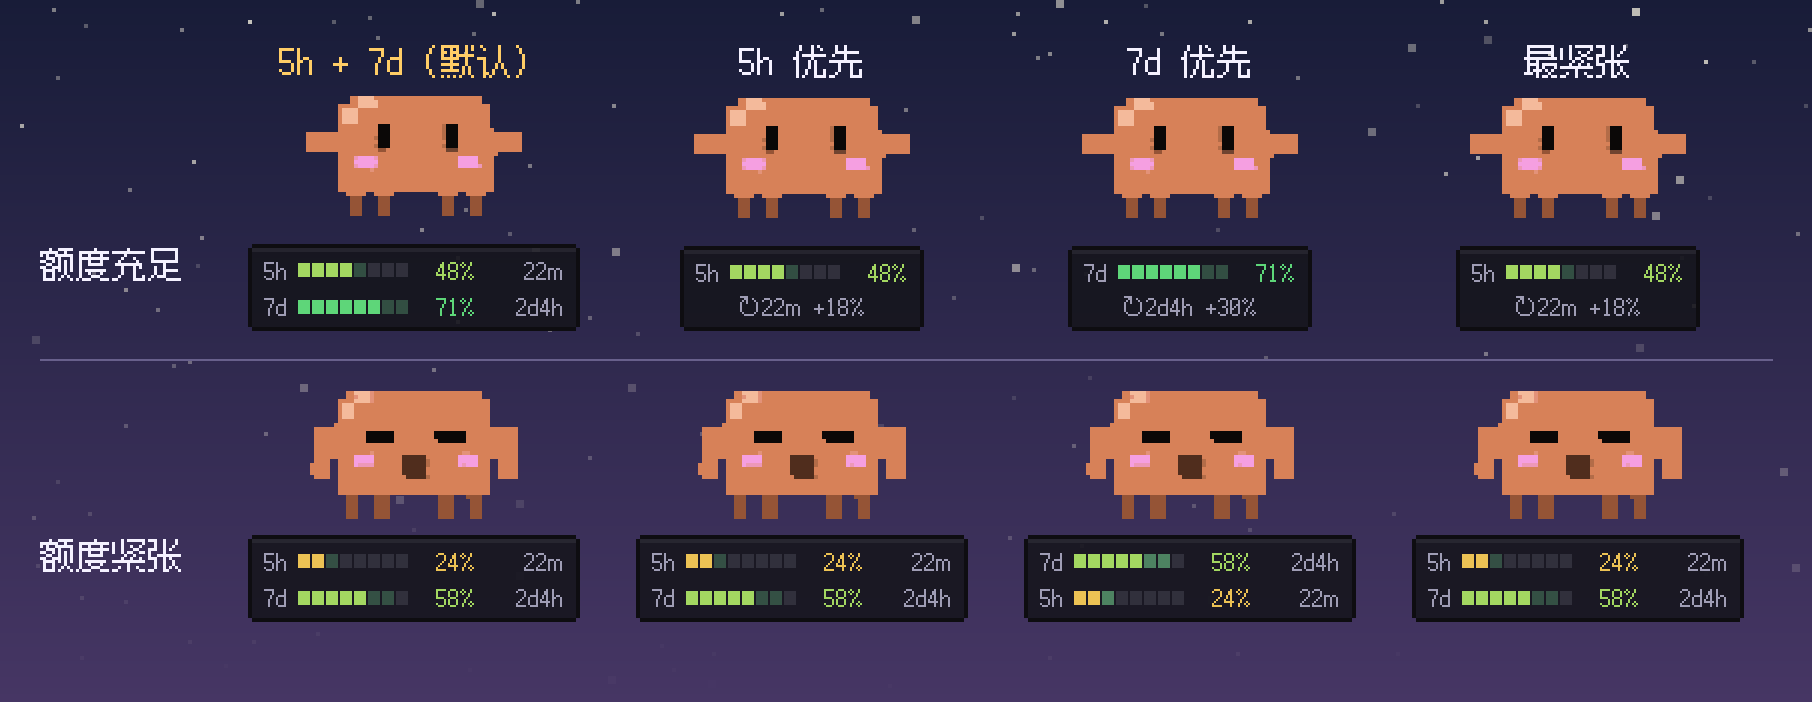
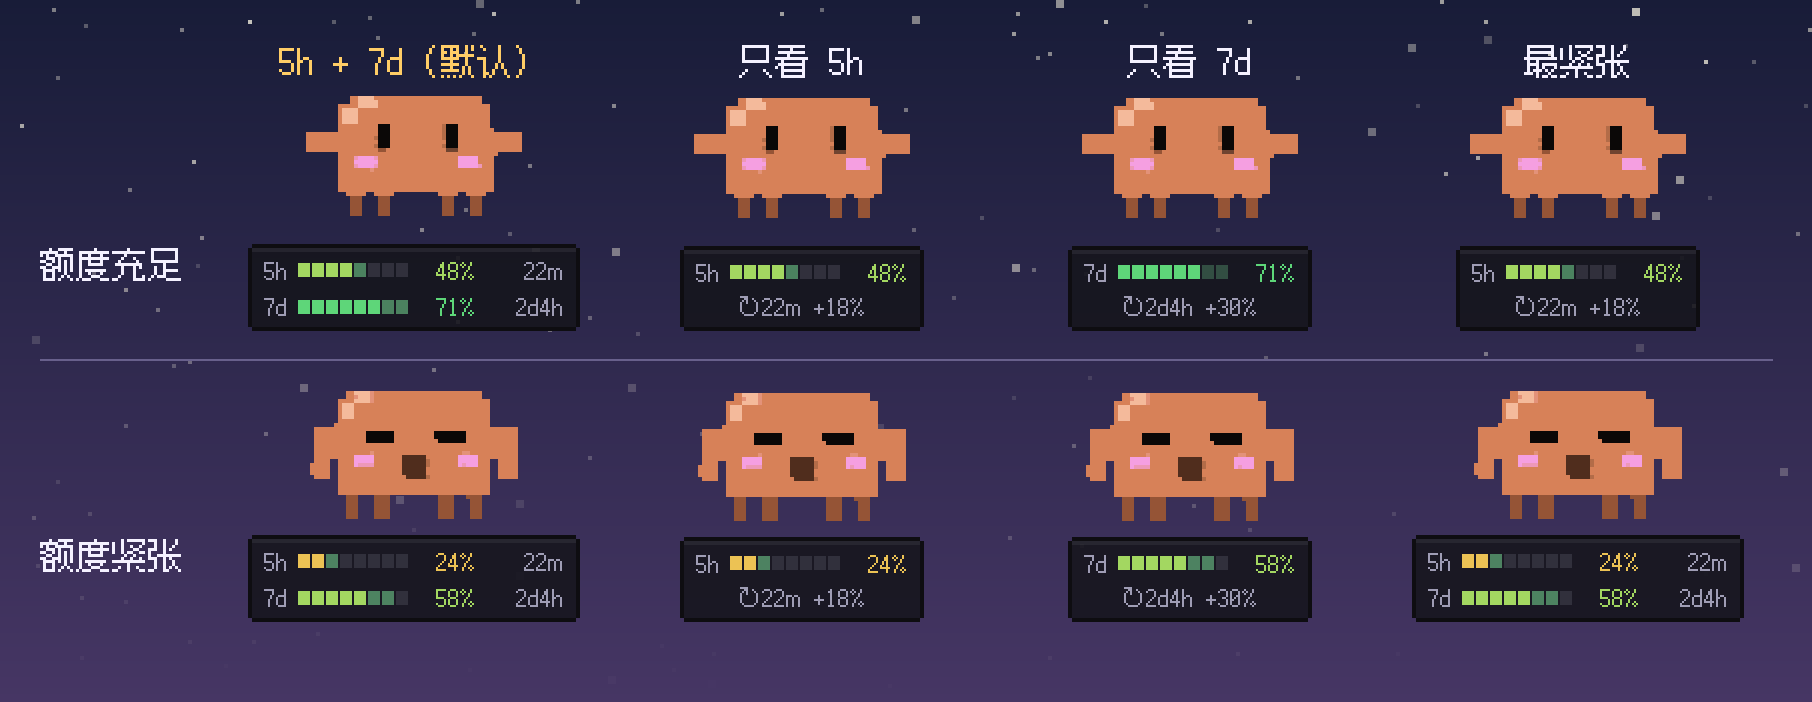
Meter choice per buddy, and an explicit choice is never overridden
Picking 5h still showed 7d too once 7d got tight, which read as the setting not working. Now
5h / 7d / 5h+7d show exactly what was picked; only "tightest" unfolds every window when quota is
low. Each buddy has its own choice (settings.hudMode is per agent; the old shared value applies to
both). README text and screenshots updated.

diff --git a/src/renderer/panel/panel.ts b/src/renderer/panel/panel.ts
@@ -2,7 +2,7 @@ import { formatClock, formatCount, formatDuration, formatMoney, hostOf } from '.
 import { windowViews, type WindowView } from '../../shared/hud';
 import { hasKey, t } from '../../shared/i18n';
 import { moodFor } from '../../shared/mood';
-import type { AgentId, AppState, BuddySnapshot, Locale, Mood, Settings, Thresholds, UsageWindow } from '../../shared/types';
+import type { AgentId, AppState, BuddySnapshot, HudMode, Locale, Mood, Settings, Thresholds, UsageWindow } from '../../shared/types';
 import { qb } from '../common/api';
 import { SpriteAnimator } from '../common/sprites';
 import { AGENT_COLORS, esc, kindLabel, MOOD_COLORS, sourceLabel, windowLabel } from '../common/view';
@@ -495,7 +495,9 @@ class SettingsView {
       <div class="group">
         <div class="set-row"><span data-i18n="set.size"></span><div class="seg" data-set="scale">
           <button data-val="1" data-i18n="set.size.1"></button><button data-val="2" data-i18n="set.size.2"></button><button data-val="3" data-i18n="set.size.3"></button></div></div>
-        <div class="set-row"><span data-i18n="set.hudMode"></span><div class="seg" data-set="hudMode">
+        <div class="set-row"><span data-i18n="set.hudMode.claude"></span><div class="seg" data-set="hudMode" data-agent="claude">
+          <button data-val="both" data-i18n="set.hudMode.both"></button><button data-val="5h" data-i18n="set.hudMode.5h"></button><button data-val="7d" data-i18n="set.hudMode.7d"></button><button data-val="auto" data-i18n="set.hudMode.auto"></button></div></div>
+        <div class="set-row"><span data-i18n="set.hudMode.codex"></span><div class="seg" data-set="hudMode" data-agent="codex">
           <button data-val="both" data-i18n="set.hudMode.both"></button><button data-val="5h" data-i18n="set.hudMode.5h"></button><button data-val="7d" data-i18n="set.hudMode.7d"></button><button data-val="auto" data-i18n="set.hudMode.auto"></button></div></div>
         <div class="hint" data-i18n="set.hudModeHint"></div>
         <div class="set-row"><span data-i18n="set.language"></span><div class="seg" data-set="locale">
@@ -525,7 +527,8 @@ class SettingsView {
     const locale = s.locale;
     for (const node of this.host.querySelectorAll<HTMLElement>('[data-i18n]')) node.textContent = t(locale, node.dataset.i18n!);
     for (const seg of this.host.querySelectorAll<HTMLElement>('.seg[data-set]')) {
-      const current = String((s.settings as any)[seg.dataset.set!]);
+      const agent = seg.dataset.agent as AgentId | undefined;
+      const current = String(agent ? s.settings.hudMode[agent] : (s.settings as any)[seg.dataset.set!]);
       for (const b of seg.querySelectorAll<HTMLElement>('button')) b.classList.toggle('on', b.dataset.val === current);
     }
     for (const sw of this.host.querySelectorAll<HTMLElement>('.switch')) {
@@ -724,7 +727,12 @@ root.addEventListener('click', async (e) => {
   const seg = target.closest<HTMLElement>('.seg[data-set]');
   if (seg && target.dataset.val) {
     const key = seg.dataset.set as keyof Settings;
-    const value = key === 'locale' || key === 'hudMode' ? target.dataset.val : Number(target.dataset.val);
+    const agent = seg.dataset.agent as AgentId | undefined;
+    if (key === 'hudMode' && agent) {
+      await qb().updateSettings({ hudMode: { ...state.settings.hudMode, [agent]: target.dataset.val as HudMode } });
+      return;
+    }
+    const value = key === 'locale' ? target.dataset.val : Number(target.dataset.val);
     await qb().updateSettings({ [key]: value } as Partial<Settings>);
     return;
   }

diff --git a/src/main/settings.ts b/src/main/settings.ts
@@ -9,7 +9,7 @@ export const DEFAULT_SETTINGS: Settings = {
   showCodex: true,
   locale: 'auto',
   refreshSeconds: 60,
-  hudMode: 'both',
+  hudMode: { claude: 'both', codex: 'both' },
   launchAtLogin: false,
   thresholds: DEFAULT_THRESHOLDS,
   loginSkipped: [],
@@ -17,14 +17,20 @@ export const DEFAULT_SETTINGS: Settings = {
 };
 
 export function sanitize(input: any, base: Settings = DEFAULT_SETTINGS): Settings {
-  const s: Settings = { ...base, thresholds: { ...base.thresholds }, loginSkipped: [...base.loginSkipped] };
+  const s: Settings = { ...base, thresholds: { ...base.thresholds }, hudMode: { ...base.hudMode }, loginSkipped: [...base.loginSkipped] };
   if (!input || typeof input !== 'object') return s;
   if ([1, 2, 3].includes(input.scale)) s.scale = input.scale;
   if (typeof input.showClaude === 'boolean') s.showClaude = input.showClaude;
   if (typeof input.showCodex === 'boolean') s.showCodex = input.showCodex;
   if (['auto', 'zh-CN', 'en'].includes(input.locale)) s.locale = input.locale;
   if (Number.isFinite(input.refreshSeconds)) s.refreshSeconds = Math.min(3600, Math.max(15, Math.round(input.refreshSeconds)));
-  if (HUD_MODES.includes(input.hudMode)) s.hudMode = input.hudMode;
+  // a single mode is the old shared setting: it applies to every buddy
+  if (HUD_MODES.includes(input.hudMode)) s.hudMode = { claude: input.hudMode, codex: input.hudMode };
+  else if (input.hudMode && typeof input.hudMode === 'object') {
+    for (const agent of ['claude', 'codex'] as const) {
+      if (HUD_MODES.includes(input.hudMode[agent])) s.hudMode[agent] = input.hudMode[agent];
+    }
+  }
   if (typeof input.launchAtLogin === 'boolean') s.launchAtLogin = input.launchAtLogin;
   if (input.petPosition && Number.isFinite(input.petPosition.x) && Number.isFinite(input.petPosition.y)) {
     s.petPosition = { x: Math.round(input.petPosition.x), y: Math.round(input.petPosition.y) };

diff --git a/test/hud.test.ts b/test/hud.test.ts
@@ -1,5 +1,6 @@
 import assert from 'node:assert/strict';
 import { test } from 'node:test';
+import { sanitize } from '../src/main/settings';
 import { hudRows, windowViews } from '../src/shared/hud';
 import { DEFAULT_THRESHOLDS, finalize } from '../src/shared/mood';
 import type { UsageWindow } from '../src/shared/types';
@@ -93,18 +94,20 @@ test('default mode shows 5h then 7d even when calm, each with its own refill', (
   );
 });
 
-test('a pinned window comes first; other windows still unfold when tight', () => {
+test('an explicit choice is shown as chosen, even when another window is tight', () => {
   assert.deepEqual(
     hudRows(pool, DEFAULT_THRESHOLDS, '7d', NOW).rows.map((r) => r.id),
     ['7d'],
   );
   const weekly = snap([
-    { id: '5h', label: '5h', usedPercent: 10, scope: 'pool' },
-    { id: '7d', label: '7d', usedPercent: 85, scope: 'pool' },
+    { id: '5h', label: '5h', usedPercent: 0, scope: 'pool' },
+    { id: '7d', label: '7d', usedPercent: 91, scope: 'pool' },
   ]);
+  const { urgent, rows } = hudRows(weekly, DEFAULT_THRESHOLDS, '5h', NOW);
+  assert.equal(urgent, true);
   assert.deepEqual(
-    hudRows(weekly, DEFAULT_THRESHOLDS, '5h', NOW).rows.map((r) => r.id),
-    ['5h', '7d'],
+    rows.map((r) => r.id),
+    ['5h'],
   );
 });
 
@@ -114,4 +117,10 @@ test('a chosen window the source does not have falls back to the tightest', () =
     hudRows(relay, DEFAULT_THRESHOLDS, 'both', NOW).rows.map((r) => r.id),
     ['quota'],
   );
+});
+
+test('meter choice is per buddy; the old shared setting applies to both', () => {
+  assert.deepEqual(sanitize({ hudMode: '5h' }).hudMode, { claude: '5h', codex: '5h' });
+  assert.deepEqual(sanitize({ hudMode: { codex: '7d', claude: 'nope' } }).hudMode, { claude: 'both', codex: '7d' });
+  assert.deepEqual(sanitize({}).hudMode, { claude: 'both', codex: 'both' });
 });

diff --git a/src/shared/hud.ts b/src/shared/hud.ts
@@ -56,10 +56,10 @@ export function windowViews(b: BuddySnapshot, now = Date.now()): WindowView[] {
 }
 
 /**
- * Rows for the compact meter under a buddy. The user's choice comes first: 5h and 7d together, one
- * of them, or (auto) just the tightest window; a choice the source doesn't have falls back to the
- * tightest. Once any window drops below the "relaxed" threshold every limiting window is added (up to
- * three), so the user can tell whether a short wait (5h) or a long one (7d) is coming.
+ * Rows for the compact meter under a buddy. An explicit choice (5h and 7d together, or one of them)
+ * is shown exactly as chosen. Auto shows the tightest window, and every limiting window (up to three)
+ * once any drops below the "relaxed" threshold, so the user can tell whether a short wait (5h) or a
+ * long one (7d) is coming. A choice the source doesn't have falls back to auto.
  */
 export function hudRows(
   b: BuddySnapshot,
@@ -72,7 +72,6 @@ export function hudRows(
   const urgent = all[0].remaining < t.relaxed;
   const ids = mode === 'both' ? ['5h', '7d'] : mode === 'auto' ? [] : [mode];
   const chosen = ids.map((id) => all.find((w) => w.id === id)).filter((w): w is WindowView => !!w);
-  const rows = chosen.length ? chosen : [all[0]];
-  if (urgent) rows.push(...all.filter((w) => !rows.includes(w)));
-  return { urgent, rows: rows.slice(0, 3) };
+  if (chosen.length) return { urgent, rows: chosen };
+  return { urgent, rows: urgent ? all.slice(0, 3) : all.slice(0, 1) };
 }

diff --git a/src/shared/i18n.ts b/src/shared/i18n.ts
@@ -72,12 +72,13 @@ const zh: Dict = {
   'set.size.1': '小',
   'set.size.2': '中',
   'set.size.3': '大',
-  'set.hudMode': '桌面额度',
+  'set.hudMode.claude': 'Claude 额度',
+  'set.hudMode.codex': 'Codex 额度',
   'set.hudMode.both': '5h+7d',
   'set.hudMode.5h': '5h',
   'set.hudMode.7d': '7d',
   'set.hudMode.auto': '最紧张',
-  'set.hudModeHint': '额度紧张时，其他窗口也会自动展开',
+  'set.hudModeHint': '「最紧张」平时只显示一个窗口，额度紧张时展开全部',
   'set.language': '语言',
   'set.interval': '刷新间隔',
   'set.launch': '开机启动',
@@ -226,12 +227,13 @@ const en: Dict = {
   'set.size.1': 'S',
   'set.size.2': 'M',
   'set.size.3': 'L',
-  'set.hudMode': 'Meter shows',
+  'set.hudMode.claude': 'Claude meter',
+  'set.hudMode.codex': 'Codex meter',
   'set.hudMode.both': '5h+7d',
   'set.hudMode.5h': '5h',
   'set.hudMode.7d': '7d',
   'set.hudMode.auto': 'Tightest',
-  'set.hudModeHint': 'Other windows unfold when quota gets tight',
+  'set.hudModeHint': 'Tightest shows one window, and all of them when quota gets tight',
   'set.language': 'Language',
   'set.interval': 'Refresh every',
   'set.launch': 'Launch at login',

diff --git a/src/renderer/pet/pet.ts b/src/renderer/pet/pet.ts
@@ -283,7 +283,7 @@ function render(): void {
     }
     stage.appendChild(view.root); // keeps DOM order == list order
     view.layout(scale);
-    view.update(b, state.locale, state.settings.thresholds, state.settings.hudMode);
+    view.update(b, state.locale, state.settings.thresholds, state.settings.hudMode[b.agent]);
   }
   fitBubbles();
   reportSize();

diff --git a/src/shared/types.ts b/src/shared/types.ts
@@ -94,7 +94,8 @@ export interface Settings {
   showCodex: boolean;
   locale: 'auto' | Locale;
   refreshSeconds: number;
-  hudMode: HudMode;
+  /** Per buddy: which windows its meter shows. */
+  hudMode: Record<AgentId, HudMode>;
   launchAtLogin: boolean;
   petPosition?: { x: number; y: number };
   thresholds: Thresholds;

diff --git a/art/tools/make_screenshots.py b/art/tools/make_screenshots.py
@@ -31,7 +31,7 @@ GOLD = (255, 205, 102)
 TOP, BOTTOM = (24, 28, 56), (70, 54, 100)
 CHIP = (52, 48, 76, 255)
 
-MODES = [("both", "5h + 7d（默认）"), ("5h", "5h 优先"), ("7d", "7d 优先"), ("auto", "最紧张")]
+MODES = [("both", "5h + 7d（默认）"), ("5h", "只看 5h"), ("7d", "只看 7d"), ("auto", "最紧张")]
 STATES = [("relaxed", "额度充足"), ("tired", "额度紧张")]
 
 
@@ -175,7 +175,7 @@ def main() -> None:
         for state, _ in STATES:
             for mode, _ in MODES:
                 print(f"capturing meter {state} / {mode}")
-                caps[(state, mode)] = capture(base / f"{state}-{mode}", f"{state},{state}", {"hudMode": mode, "showCodex": False})
+                caps[(state, mode)] = capture(base / f"{state}-{mode}", f"{state},{state}", {"hudMode": {"claude": mode, "codex": mode}, "showCodex": False})
         hero(main_cap)
         meters(caps)
         panels(main_cap, tight_cap)

diff --git a/README.md b/README.md
@@ -30,7 +30,7 @@
   <img src="docs/meters.png" width="906" alt="不同「桌面额度」设置下，小伙伴脚下的额度条">
 </p>
 
-小伙伴脚下默认同时显示 **5h 和 7d** 两个窗口，各自带恢复倒计时，一眼就能看出是要等几小时还是几天。在「设置 → 桌面额度」里可以改成 5h 优先、7d 优先，或者只看最紧张的那个。不管选哪种，只要有窗口剩余低于 35%，其他窗口都会自动展开。下次刷新能恢复的格子会闪烁提示。
+小伙伴脚下默认同时显示 **5h 和 7d** 两个窗口，各自带恢复倒计时，一眼就能看出是要等几小时还是几天。每只小伙伴可以在「设置」里单独选择：5h + 7d、只看 5h、只看 7d，或者「最紧张」。选了哪个就显示哪个；「最紧张」平时只显示最紧张的那个窗口，一旦有窗口剩余低于 35%，会把所有窗口都展开。下次刷新能恢复的格子会闪烁提示。
 
 ## 面板
 
@@ -45,7 +45,7 @@
 - **自动识别配置**：不需要手动填写。会依次读取 Claude Code 的 `ANTHROPIC_BASE_URL` / `ANTHROPIC_AUTH_TOKEN`（环境变量、`~/.claude/settings.json`、managed settings、`apiKeyHelper`）、Claude 订阅登录凭据，以及 Codex 的 `~/.codex/config.toml`（`model_provider`、`profile`、`env_key`）和 `auth.json`。
 - **桌面宠物交互**：除了小伙伴本身，窗口其他区域都是鼠标穿透的。拖动可以移动位置，单击打开面板，双击立即刷新，右键弹出菜单；悬停会冒出详细信息的气泡，平时也会自言自语。
 - **托盘 / 菜单栏**：Windows 托盘提示里显示各自余量；macOS 菜单栏图标旁边直接显示最低余量。右键菜单和托盘菜单可以单独显示 / 隐藏 Claude 或 Codex。
-- **设置**：点头像选择桌面上显示哪几只、大小（小 / 中 / 大）、桌面额度、语言、刷新间隔、开机启动、演示模式，以及 Sub2API 账号管理。
+- **设置**：点头像选择桌面上显示哪几只、大小（小 / 中 / 大）、每只小伙伴的额度显示、语言、刷新间隔、开机启动、演示模式，以及 Sub2API 账号管理。
 
 ## 支持的上游
 
